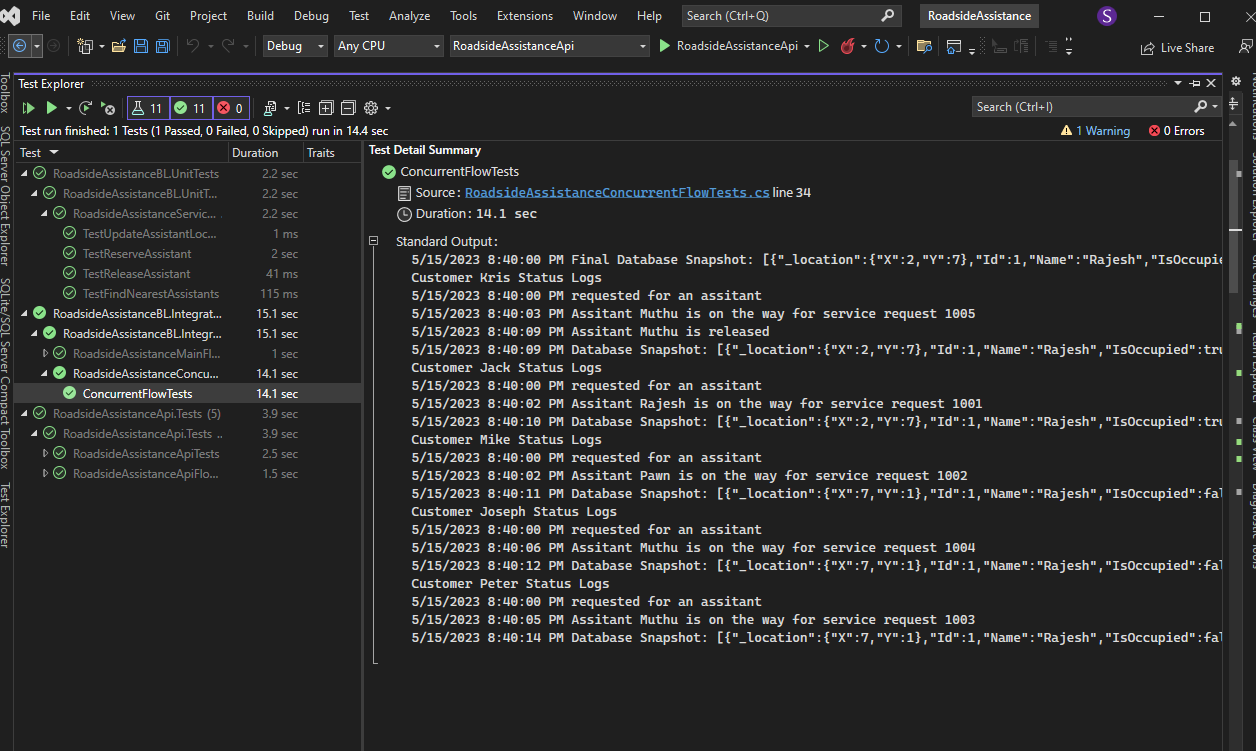
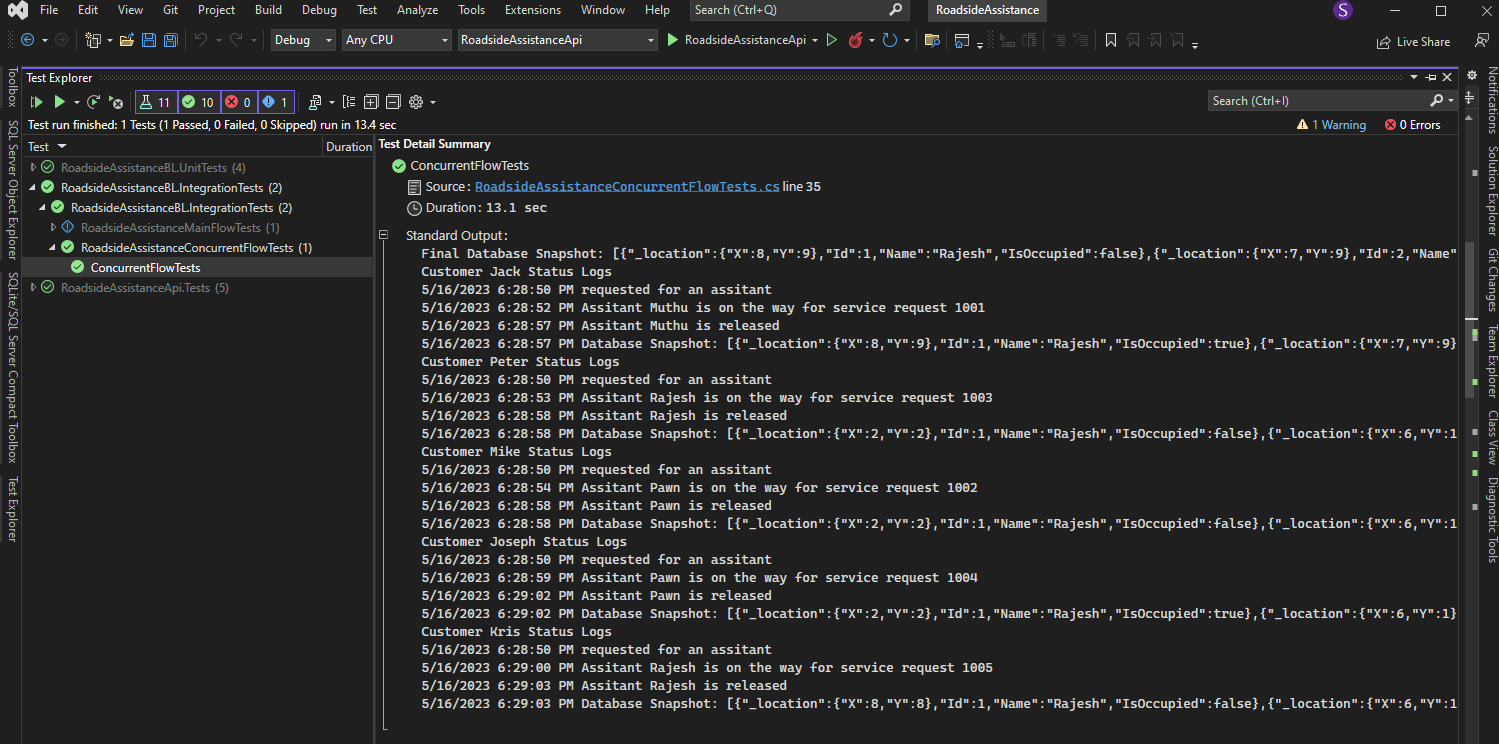
fixed the locking

Changed region(s): [[0.0, 0.0, 1.0, 0.9583], [0.8694, 0.0, 0.9005, 0.0309]]

diff --git a/RoadsideAssistanceBL.IntegrationTests/RoadsideAssistanceConcurrentFlowTests.cs b/RoadsideAssistanceBL.IntegrationTests/RoadsideAssistanceConcurrentFlowTests.cs
@@ -1,4 +1,5 @@
-using Newtonsoft.Json;
+using Microsoft.AspNetCore.Identity;
+using Newtonsoft.Json;
 using RoadsideAssistanceBL.DataStore;
 using RoadsideAssistanceBL.Models;
 using RoadsideAssistanceBL.Service;
@@ -57,7 +58,7 @@ namespace RoadsideAssistanceBL.IntegrationTests
 
             //Step 3: Assert with logs
             var json = JsonConvert.SerializeObject(_dataStoreStub.GetAssitants());
-            Console.WriteLine($"{DateTime.Now} Final Database Snapshot: {json}");
+            Console.WriteLine($"Final Database Snapshot: {json}");
             foreach (var task in tasks)
             {
                try
@@ -91,14 +92,14 @@ namespace RoadsideAssistanceBL.IntegrationTests
                     var doWorkTask = Task.Factory.StartNew(() =>
                     {
                         //Delay 1 to 5 seconds randomly to provide the response
-                        var seconds = new Random().Next(5, 10);
+                        var seconds = new Random().Next(3, 5);
                         Thread.Sleep(seconds * 1000);
                     });
 
                     Task.WaitAll(doWorkTask);
-                    _service.ReleaseAssistant(customer, assitant);
+                    _service.ReleaseAssistant(customer, assitant).Wait();
                     location = new Geolocation(random.Next(1, 10), random.Next(1, 10));
-                    _service.UpdateAssistantLocation(assitant, location);
+                    _service.UpdateAssistantLocation(assitant, location).Wait();
                 }
                 else
                 {

diff --git a/RoadsideAssistanceBL/Service/RoadSideAssitanceService/RequestPublisher.cs b/RoadsideAssistanceBL/Service/RoadSideAssitanceService/RequestPublisher.cs
@@ -10,6 +10,7 @@ namespace RoadsideAssistanceBL.Service
 {
     public class RequestPublisher : IRequestPublisher
     {
+        static object myLocker = new object();
         private List<Assistant> assitants;
         private ServiceRequest serviceRequest;
 
@@ -36,15 +37,11 @@ namespace RoadsideAssistanceBL.Service
                 Assistant reponse = null;
                 Action<Assistant, string> Callback = delegate (Assistant assistant, string decision)
                 {
-                    if (decision == "accepted" && reponse == null)
+                    if (decision == "accepted" && reponse == null && assistant.IsOccupied == false)
                     {
                         Log.Information($"Assitant {assistant.Name} is assigned for work");
-                        lock (assistant)
-                        {
-                            assistant.ConfirmAssignment();
-                        }
-                        reponse = assistant;
-
+                        var val = assistant.ChangeAssignment(true);
+                        if(val) reponse = assistant;
                     }
                 };
                 NotifyAssistants(Callback);
@@ -54,7 +51,7 @@ namespace RoadsideAssistanceBL.Service
                 return reponse;
             }, cancellationToken);
 
-            int timeout = 10 * 1000; //wait for 10 seconds to timeout
+            int timeout = 20 * 1000; //wait for 10 seconds to timeout
             if (await Task.WhenAny(task, Task.Delay(timeout)) == task)
             {
                 return await task;

diff --git a/RoadsideAssistanceBL/Models/Assistant.cs b/RoadsideAssistanceBL/Models/Assistant.cs
@@ -22,6 +22,8 @@ namespace RoadsideAssistanceBL.Models
         [JsonProperty]
         private Geolocation _location;
 
+        private static object myLocker = new object();
+
         public async void Notify(ServiceRequest request, Action<Assistant, string> callback)
         {
             Log.Information($"Assitant {this.Name} notified for service request {request.Id}");
@@ -49,19 +51,15 @@ namespace RoadsideAssistanceBL.Models
             request.StatusLog.Add($"{DateTime.Now} Assitant {this.Name} is on the way for service request {request.Id}");
         }
 
-        public void ConfirmAssignment()
+        public bool ChangeAssignment(bool isOccupied)
         {
-            IsOccupied = true;
-        }
-
-        public void MakeAvailable()
-        {
-            IsOccupied = false; //signal available for next work
-            Log.Information($"Assitant {this.Name} reports back to available pool");
-
-            //update the current location
-            var random = new Random();
-            UpdateLocation(new Geolocation(random.Next(1, 10), random.Next(1, 10)));
+            lock(myLocker)
+            {
+                IsOccupied = isOccupied;
+                if (IsOccupied) Log.Information($"Assitant {this.Name} assigned for work");
+                else Log.Information($"Assitant {this.Name} reports back to available pool");
+            }
+            return IsOccupied;
         }
 
         public void UpdateLocation(Geolocation loc)

diff --git a/RoadsideAssistanceBL/DataStore/RoadSideDataStore.cs b/RoadsideAssistanceBL/DataStore/RoadSideDataStore.cs
@@ -2,6 +2,7 @@
 using System;
 using System.Collections.Generic;
 using System.Linq;
+using System.Runtime.InteropServices;
 using System.Text;
 using System.Threading.Tasks;
 
@@ -48,9 +49,11 @@ namespace RoadsideAssistanceBL.DataStore
                     }
             };
 
+            var random = new Random();
             foreach(var assistant in list)
             {
-                assistant.MakeAvailable();
+                assistant.UpdateLocation(new Geolocation(random.Next(1, 10), random.Next(1, 10)));
+                assistant.ChangeAssignment(false);
             }
 
             return list;

diff --git a/RoadsideAssistanceBL.UnitTests/RoadSideDataStoreStub.cs b/RoadsideAssistanceBL.UnitTests/RoadSideDataStoreStub.cs
@@ -46,11 +46,12 @@ namespace RoadsideAssistanceBL.UnitTests
                     }
             };
 
+            var random = new Random();
             foreach (var assistant in list)
             {
-                assistant.MakeAvailable();
+                assistant.UpdateLocation(new Geolocation(random.Next(1, 10), random.Next(1, 10)));
+                assistant.ChangeAssignment(false);
             }
-
             return list;
         }
 

diff --git a/RoadsideAssistanceBL.IntegrationTests/RoadSideDataStoreStub.cs b/RoadsideAssistanceBL.IntegrationTests/RoadSideDataStoreStub.cs
@@ -46,9 +46,11 @@ namespace RoadsideAssistanceBL.IntegrationTests
                     }
             };
 
+            var random = new Random();
             foreach (var assistant in list)
             {
-                assistant.MakeAvailable();
+                assistant.UpdateLocation(new Geolocation(random.Next(1, 10), random.Next(1, 10)));
+                assistant.ChangeAssignment(false);
             }
 
             return list;

diff --git a/RoadsideAssistanceBL/Service/RoadSideAssitanceService/RoadsideAssistanceService.cs b/RoadsideAssistanceBL/Service/RoadSideAssitanceService/RoadsideAssistanceService.cs
@@ -56,7 +56,7 @@ namespace RoadsideAssistanceBL.Service
             {
                 var statusLog = customer.serviceRequest?.StatusLog;
                 statusLog.Add($"{DateTime.Now} Assitant {assistant.Name} is released");
-                assistant.MakeAvailable();
+                assistant.ChangeAssignment(false);
                 _assistantSevice.Save(assistant);
                 _customerSevice.Save(customer);
             });
